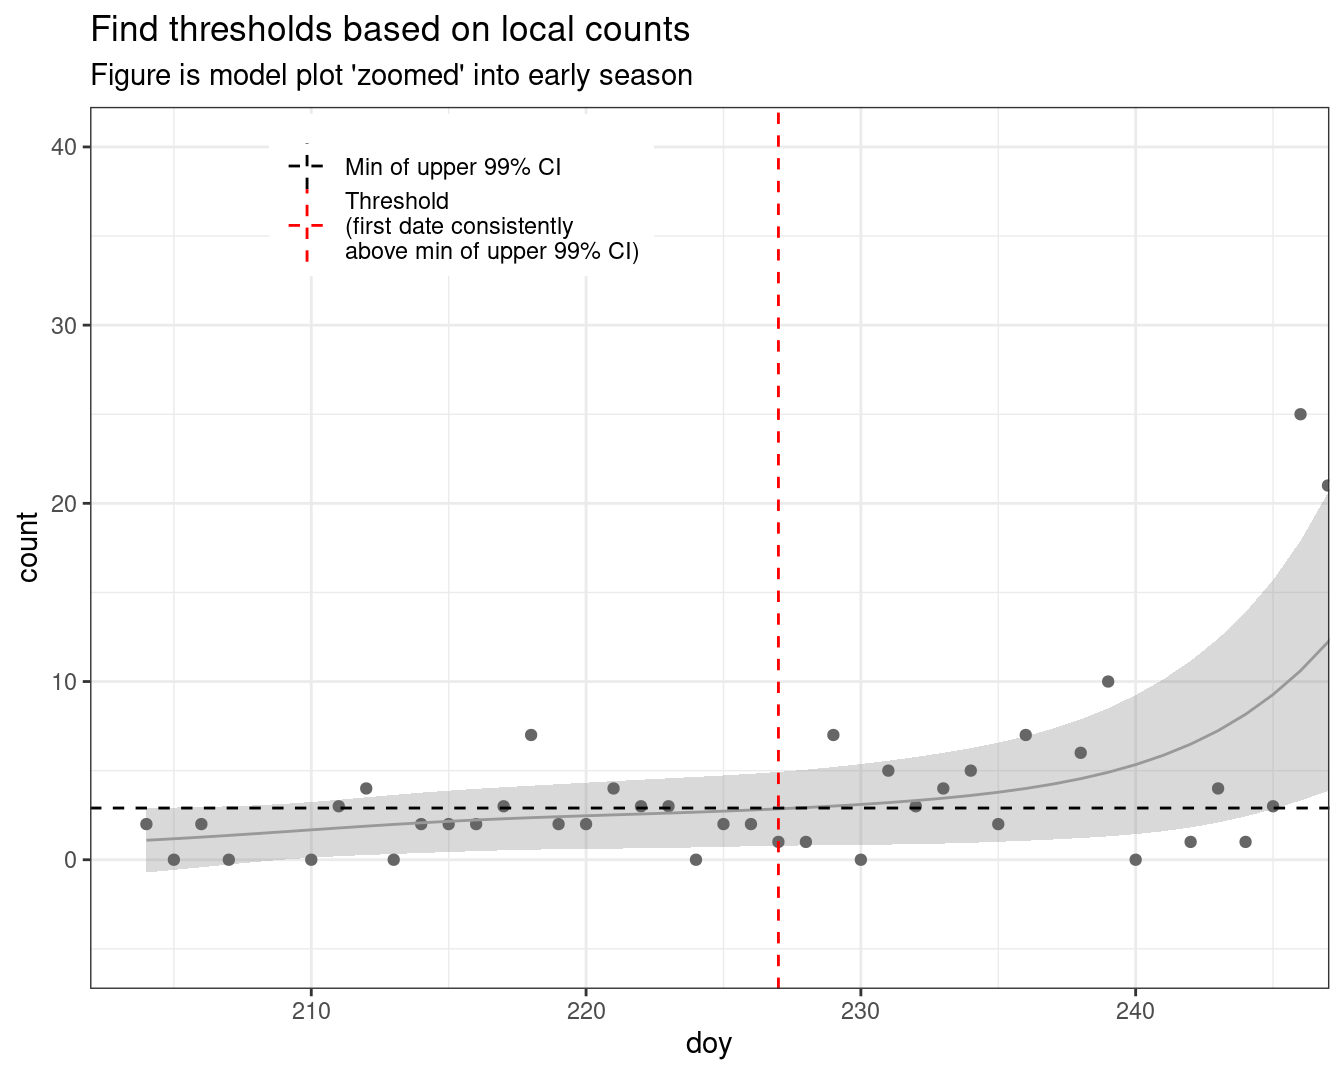
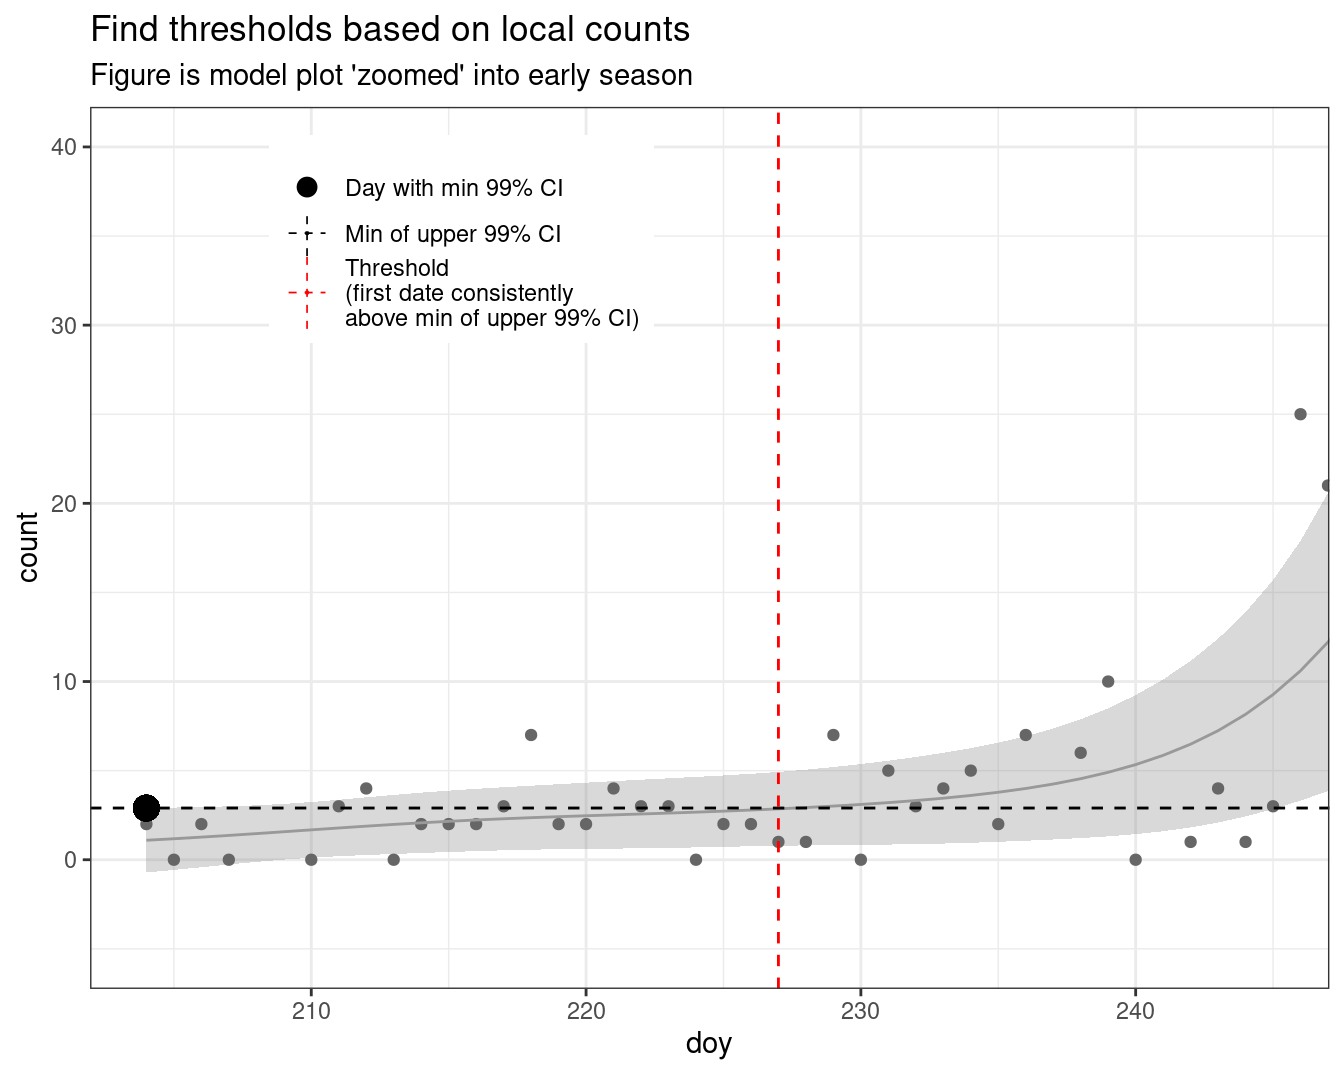
Clarify CI99 etc.

Changed region(s): [[0.2188, 0.1535, 0.4688, 0.307], [0.0938, 0.7367, 0.125, 0.7674]]

diff --git a/01_initial_exploration.html b/01_initial_exploration.html
@@ -7,7 +7,7 @@
 <meta name="viewport" content="width=device-width, initial-scale=1.0, user-scalable=yes">
 
 <meta name="author" content="Steffi">
-<meta name="dcterms.date" content="2023-11-03">
+<meta name="dcterms.date" content="2023-11-07">
 
 <title>Initial Exploration</title>
 <style>
@@ -123,7 +123,7 @@ pre > code.sourceCode > span > a:first-child::before { text-decoration: underlin
     <div>
     <div class="quarto-title-meta-heading">Published</div>
     <div class="quarto-title-meta-contents">
-      <p class="date">November 3, 2023</p>
+      <p class="date">November 7, 2023</p>
     </div>
   </div>
   
@@ -502,6 +502,22 @@ s(doy) 9.00 5.48    1.01    0.74</code></pre>
 <pre><code>[1] 227</code></pre>
 </div>
 </div>
+<blockquote class="blockquote">
+<h4 id="what-is-the-min-of-the-upper-limit-of-the-ci-99" class="anchored">What is the min of the upper limit of the CI 99%?!?!?</h4>
+<p>In the image below…</p>
+<ul>
+<li>the Grey ribbon represents the 99% Confidence Interval around the GAM model (grey line)</li>
+<li>the upper limit of this <em>ribbon</em> is the upper limit of the 99% CI</li>
+<li>the <em>minimum</em> of this value is the area on the figure where the upper edge of the ribbon is at it’s lowest value (large black point)</li>
+<li>in this year/model, it’s occurs on the first day</li>
+</ul>
+<p><strong>How do we use this value?</strong></p>
+<ul>
+<li>the first value in the model (grey line) to cross this limit (dashed black line), identifies our threshold date (red dashed line)</li>
+<li>we then use only the dates <em>after</em> this threshold to calculate migration metrics</li>
+<li>we then use only the dates <em>before</em> this threshold to calculate local counts</li>
+</ul>
+</blockquote>
 <div class="cell" data-fig.asp="0.8">
 <details>
 <summary>Code</summary>
@@ -515,19 +531,23 @@ s(doy) 9.00 5.48    1.01    0.74</code></pre>
 <span id="cb25-8"><a href="#cb25-8" aria-hidden="true" tabindex="-1"></a></span>
 <span id="cb25-9"><a href="#cb25-9" aria-hidden="true" tabindex="-1"></a>g2 <span class="ot">&lt;-</span> <span class="fu">ggplot</span>(<span class="at">data =</span> d, <span class="at">mapping =</span> <span class="fu">aes</span>(<span class="at">x =</span> doy, <span class="at">y =</span> count)) <span class="sc">+</span></span>
 <span id="cb25-10"><a href="#cb25-10" aria-hidden="true" tabindex="-1"></a>  <span class="fu">theme_bw</span>() <span class="sc">+</span></span>
-<span id="cb25-11"><a href="#cb25-11" aria-hidden="true" tabindex="-1"></a>  <span class="fu">theme</span>(<span class="at">legend.position =</span> <span class="fu">c</span>(<span class="fl">0.3</span>, <span class="fl">0.9</span>), <span class="at">legend.title =</span> <span class="fu">element_blank</span>()) <span class="sc">+</span></span>
+<span id="cb25-11"><a href="#cb25-11" aria-hidden="true" tabindex="-1"></a>  <span class="fu">theme</span>(<span class="at">legend.position =</span> <span class="fu">c</span>(<span class="fl">0.3</span>, <span class="fl">0.85</span>), <span class="at">legend.title =</span> <span class="fu">element_blank</span>()) <span class="sc">+</span></span>
 <span id="cb25-12"><a href="#cb25-12" aria-hidden="true" tabindex="-1"></a>  <span class="fu">geom_ribbon</span>(<span class="fu">aes</span>(<span class="at">ymin =</span> ci99_lower, <span class="at">ymax =</span> ci99_upper), <span class="at">fill =</span> <span class="st">"grey50"</span>, <span class="at">alpha =</span> <span class="fl">0.3</span>) <span class="sc">+</span></span>
 <span id="cb25-13"><a href="#cb25-13" aria-hidden="true" tabindex="-1"></a>  <span class="fu">geom_point</span>(<span class="at">data =</span> g<span class="sc">$</span>model, <span class="at">colour =</span> <span class="st">"grey40"</span>) <span class="sc">+</span></span>
 <span id="cb25-14"><a href="#cb25-14" aria-hidden="true" tabindex="-1"></a>  <span class="fu">geom_line</span>(<span class="at">colour =</span> <span class="st">"grey60"</span>) <span class="sc">+</span></span>
 <span id="cb25-15"><a href="#cb25-15" aria-hidden="true" tabindex="-1"></a>  <span class="fu">coord_cartesian</span>(<span class="at">xlim =</span> <span class="fu">c</span>(<span class="dv">204</span>, <span class="dv">245</span>), <span class="at">ylim =</span> <span class="fu">c</span>(<span class="sc">-</span><span class="dv">5</span>, <span class="dv">40</span>)) <span class="sc">+</span></span>
-<span id="cb25-16"><a href="#cb25-16" aria-hidden="true" tabindex="-1"></a>  <span class="fu">geom_hline</span>(<span class="at">linetype =</span> <span class="dv">2</span>,</span>
-<span id="cb25-17"><a href="#cb25-17" aria-hidden="true" tabindex="-1"></a>             <span class="fu">aes</span>(<span class="at">yintercept =</span> <span class="fu">min</span>(d<span class="sc">$</span>ci99_upper), <span class="at">colour =</span> <span class="st">"Min of upper 99% CI"</span>)) <span class="sc">+</span></span>
-<span id="cb25-18"><a href="#cb25-18" aria-hidden="true" tabindex="-1"></a>  <span class="fu">geom_vline</span>(<span class="at">linetype =</span> <span class="dv">2</span>,</span>
-<span id="cb25-19"><a href="#cb25-19" aria-hidden="true" tabindex="-1"></a>             <span class="fu">aes</span>(<span class="at">xintercept =</span> thresh, <span class="at">colour =</span> <span class="st">"Threshold</span><span class="sc">\n</span><span class="st">(first date consistently</span><span class="sc">\n</span><span class="st">above min of upper 99% CI)"</span>)) <span class="sc">+</span></span>
-<span id="cb25-20"><a href="#cb25-20" aria-hidden="true" tabindex="-1"></a>  <span class="fu">scale_colour_manual</span>(<span class="at">values =</span> <span class="fu">c</span>(<span class="st">"black"</span>, <span class="st">"red"</span>)) <span class="sc">+</span></span>
-<span id="cb25-21"><a href="#cb25-21" aria-hidden="true" tabindex="-1"></a>  <span class="fu">labs</span>(<span class="at">title =</span> <span class="st">"Find thresholds based on local counts"</span>, </span>
-<span id="cb25-22"><a href="#cb25-22" aria-hidden="true" tabindex="-1"></a>       <span class="at">subtitle =</span> <span class="st">"Figure is model plot 'zoomed' into early season"</span>)</span>
-<span id="cb25-23"><a href="#cb25-23" aria-hidden="true" tabindex="-1"></a>g2</span></code><button title="Copy to Clipboard" class="code-copy-button"><i class="bi"></i></button></pre></div>
+<span id="cb25-16"><a href="#cb25-16" aria-hidden="true" tabindex="-1"></a>  <span class="fu">geom_point</span>(<span class="at">x =</span> d<span class="sc">$</span>doy[d<span class="sc">$</span>ci99_upper <span class="sc">==</span> <span class="fu">min</span>(d<span class="sc">$</span>ci99_upper)], </span>
+<span id="cb25-17"><a href="#cb25-17" aria-hidden="true" tabindex="-1"></a>             <span class="at">y =</span> <span class="fu">min</span>(d<span class="sc">$</span>ci99_upper), <span class="at">size =</span> <span class="dv">4</span>, <span class="fu">aes</span>(<span class="at">colour =</span> <span class="st">"Day with min 99% CI"</span>),</span>
+<span id="cb25-18"><a href="#cb25-18" aria-hidden="true" tabindex="-1"></a>             <span class="at">inherit.aes =</span> <span class="cn">FALSE</span>) <span class="sc">+</span></span>
+<span id="cb25-19"><a href="#cb25-19" aria-hidden="true" tabindex="-1"></a>  <span class="fu">geom_hline</span>(<span class="at">linetype =</span> <span class="dv">2</span>,</span>
+<span id="cb25-20"><a href="#cb25-20" aria-hidden="true" tabindex="-1"></a>             <span class="fu">aes</span>(<span class="at">yintercept =</span> <span class="fu">min</span>(d<span class="sc">$</span>ci99_upper), <span class="at">colour =</span> <span class="st">"Min of upper 99% CI"</span>)) <span class="sc">+</span></span>
+<span id="cb25-21"><a href="#cb25-21" aria-hidden="true" tabindex="-1"></a>  <span class="fu">geom_vline</span>(<span class="at">linetype =</span> <span class="dv">2</span>,</span>
+<span id="cb25-22"><a href="#cb25-22" aria-hidden="true" tabindex="-1"></a>             <span class="fu">aes</span>(<span class="at">xintercept =</span> thresh, <span class="at">colour =</span> <span class="st">"Threshold</span><span class="sc">\n</span><span class="st">(first date consistently</span><span class="sc">\n</span><span class="st">above min of upper 99% CI)"</span>)) <span class="sc">+</span></span>
+<span id="cb25-23"><a href="#cb25-23" aria-hidden="true" tabindex="-1"></a>  <span class="fu">scale_colour_manual</span>(<span class="at">values =</span> <span class="fu">c</span>(<span class="st">"black"</span>, <span class="st">"black"</span>, <span class="st">"red"</span>)) <span class="sc">+</span></span>
+<span id="cb25-24"><a href="#cb25-24" aria-hidden="true" tabindex="-1"></a>  <span class="fu">guides</span>(<span class="at">colour =</span> <span class="fu">guide_legend</span>(<span class="at">override.aes =</span> <span class="fu">list</span>(<span class="at">shape =</span> <span class="fu">c</span>(<span class="dv">19</span>, <span class="dv">0</span>, <span class="dv">0</span>), <span class="at">size =</span> <span class="fu">c</span>(<span class="dv">3</span>, <span class="dv">0</span>, <span class="dv">0</span>), <span class="at">linewidth =</span> <span class="fu">c</span>(<span class="dv">0</span>, <span class="fl">0.3</span>, <span class="fl">0.3</span>), <span class="at">linetype =</span> <span class="fu">c</span>(<span class="st">"solid"</span>, <span class="st">"dashed"</span>, <span class="st">"dashed"</span>)))) <span class="sc">+</span></span>
+<span id="cb25-25"><a href="#cb25-25" aria-hidden="true" tabindex="-1"></a>  <span class="fu">labs</span>(<span class="at">title =</span> <span class="st">"Find thresholds based on local counts"</span>, </span>
+<span id="cb25-26"><a href="#cb25-26" aria-hidden="true" tabindex="-1"></a>       <span class="at">subtitle =</span> <span class="st">"Figure is model plot 'zoomed' into early season"</span>)</span>
+<span id="cb25-27"><a href="#cb25-27" aria-hidden="true" tabindex="-1"></a>g2</span></code><button title="Copy to Clipboard" class="code-copy-button"><i class="bi"></i></button></pre></div>
 </details>
 <div class="cell-output-display">
 <p><img src="01_initial_exploration_files/figure-html/unnamed-chunk-16-1.png" class="img-fluid" width="672"></p>

diff --git a/README.md b/README.md
@@ -10,3 +10,4 @@ This is the data exploration and analysis of Turkey Vulture kettling and migrati
 above Rocky Point on southern Vancouver Island. 
 
 
+
